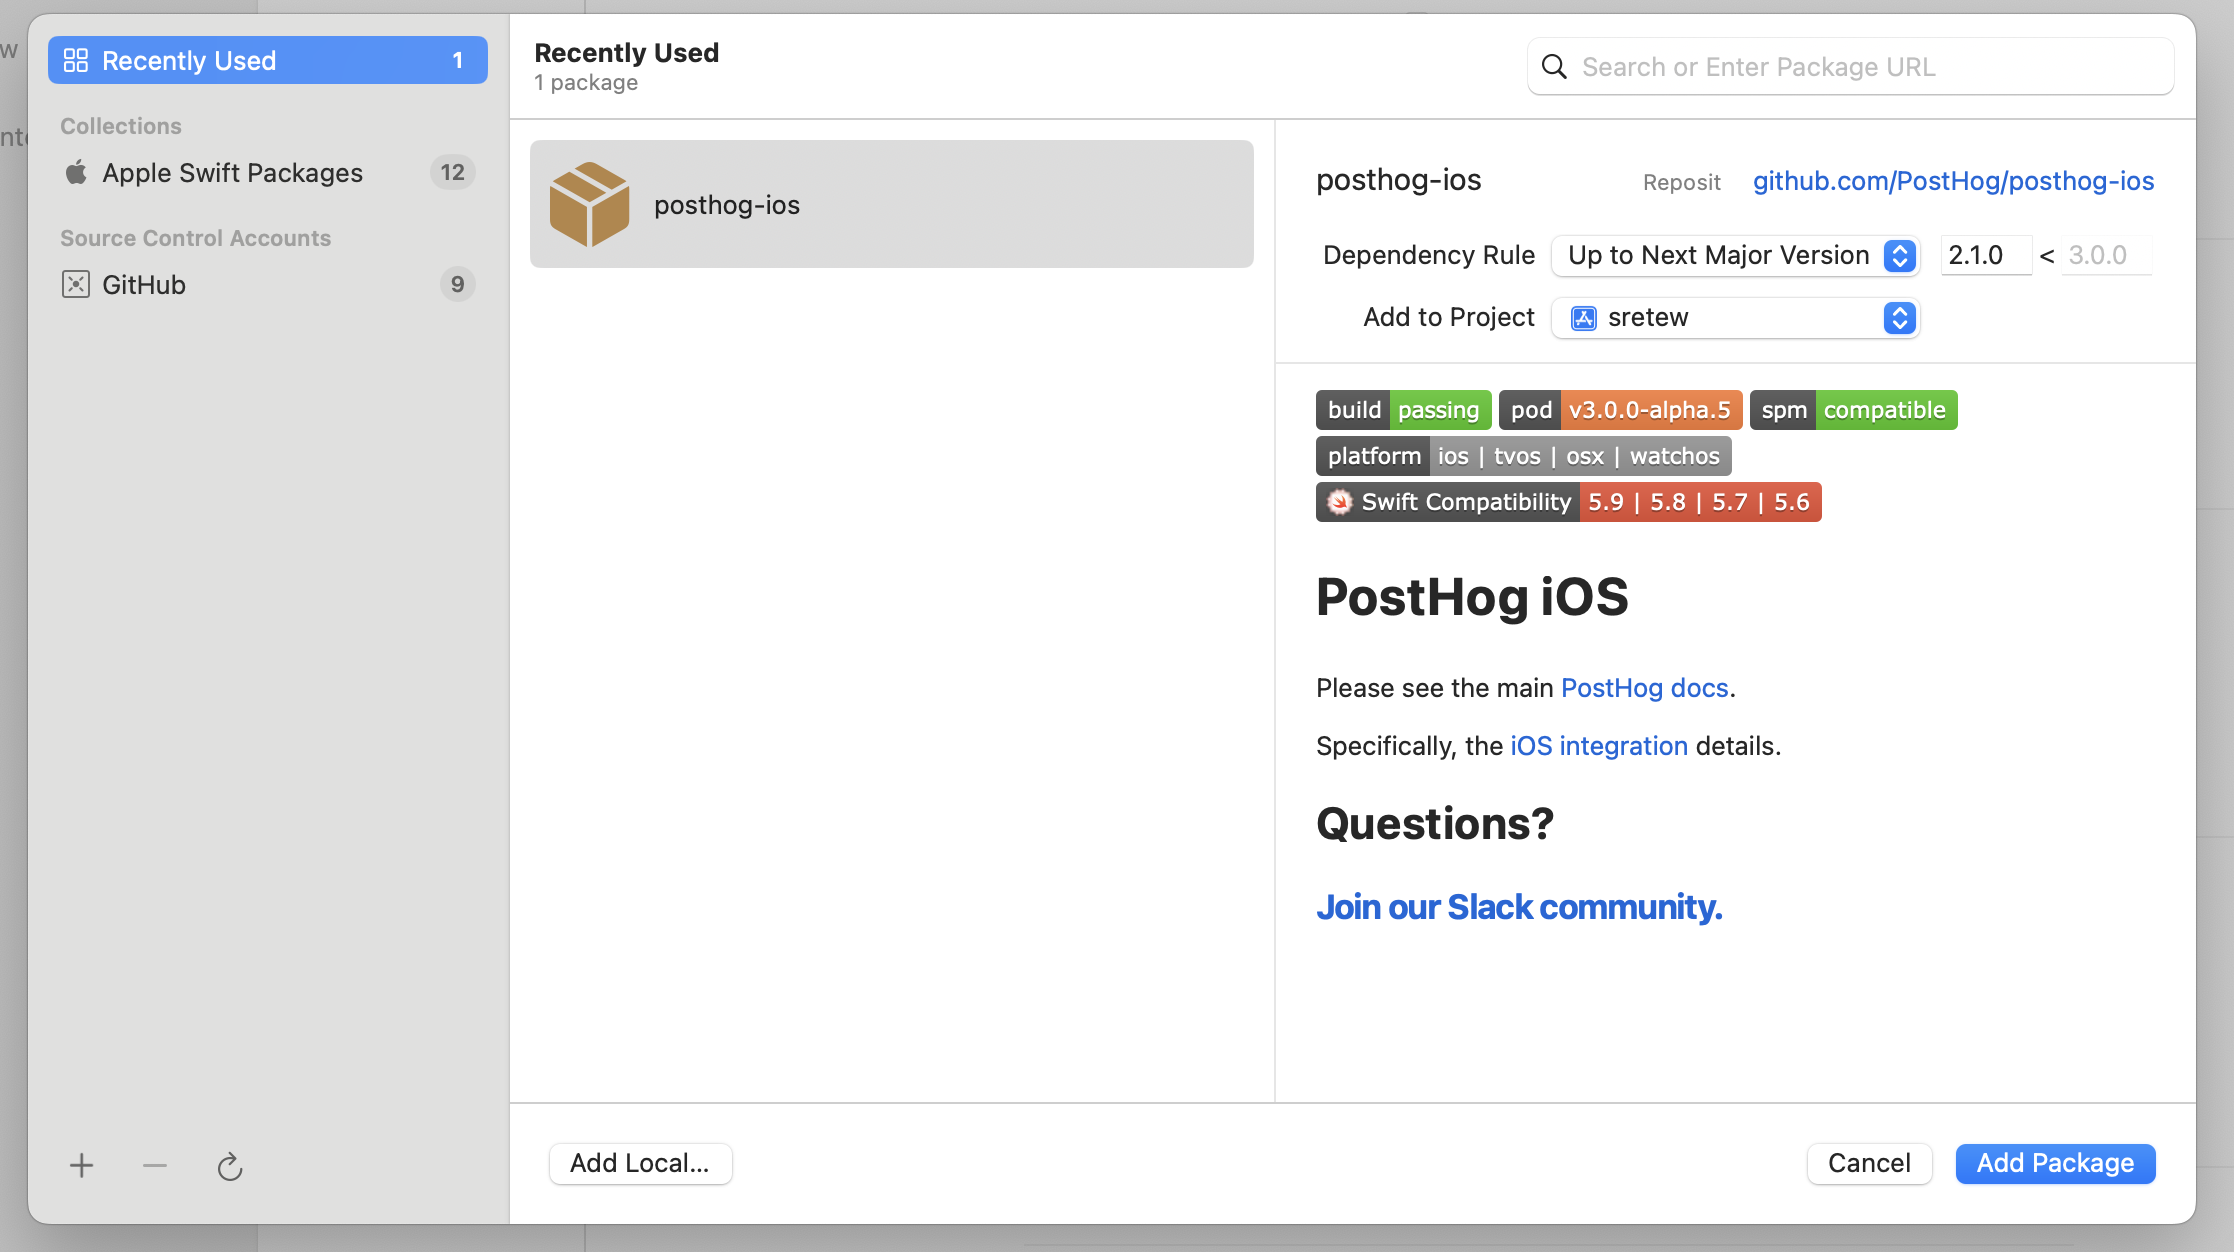
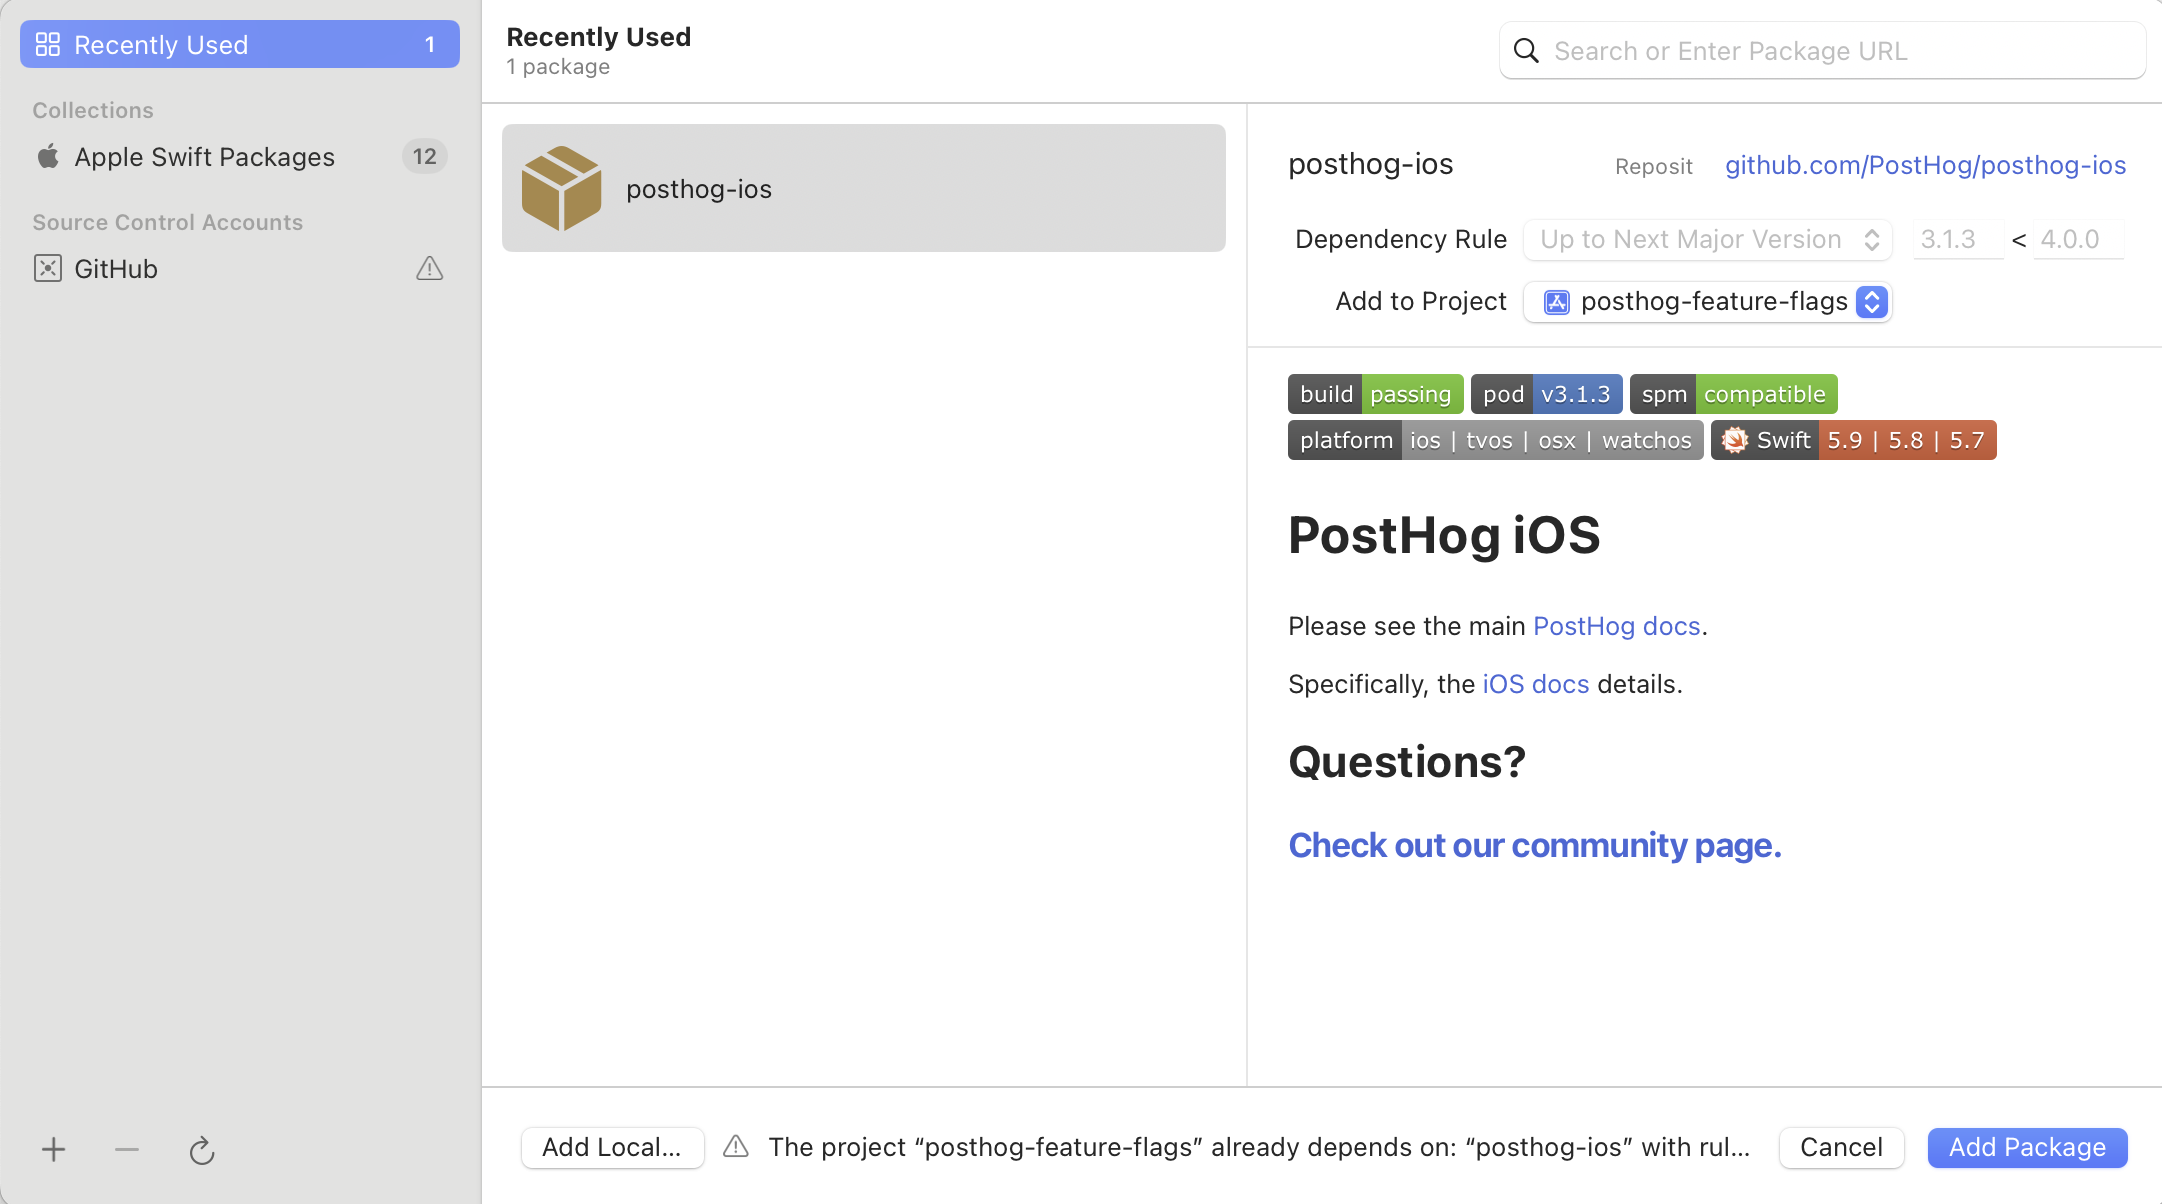
update ios and android sdk

Changed region(s): [[0.0, 0.0, 1.0, 1.0], [0.5888, 0.3073, 0.9297, 0.7375]]

diff --git a/contents/tutorials/android-ab-tests.md b/contents/tutorials/android-ab-tests.md
@@ -113,12 +113,12 @@ Our basic set up is now complete. Build and run your app to test that it's worki
 
 ## Adding PostHog to your Android app
 
-First, add the [PostHog Android SDK](/docs/libraries/android) as a dependency in your `app/build.gradle.kts` file. You can find the latest version on our [GitHub](https://github.com/PostHog/posthog-android/blob/main/CHANGELOG.md). For this tutorial, we use version `2.0.3`.
+First, add the [PostHog Android SDK](/docs/libraries/android) as a dependency in your `Gradle Scripts/build.gradle.kts (Module: app)` file. You can find the latest version on our [GitHub](https://github.com/PostHog/posthog-android/blob/main/CHANGELOG.md). For this tutorial, we use version `3.1.7`.
 
 
 ```gradle_kotlin
 dependencies {
-    implementation("com.posthog.android:posthog:2.0.3")
+    implementation("com.posthog:posthog-android:3.+")
     //... other dependencies
 }
 ```
@@ -132,46 +132,37 @@ Next, we create a Kotlin class where we can configure our PostHog instance. In t
 package com.example.my_ab_test
 
 import android.app.Application
-import com.posthog.android.PostHog
+import com.posthog.android.PostHogAndroid
+import com.posthog.android.PostHogAndroidConfig
 
 class MyABTestApplication : Application() {
     companion object {
         private const val POSTHOG_API_KEY = "<ph_project_api_key>"
-        // usually 'https://app.posthog.com' or 'https://eu.posthog.com'
-        private const val POSTHOG_HOST = "<ph_instance_address>"
+        private const val POSTHOG_HOST = "<ph_instance_address>" // usually 'https://app.posthog.com' or 'https://eu.posthog.com'
     }
 
     override fun onCreate() {
         super.onCreate()
-
-        // Initialize PostHog
-        val posthog = PostHog.Builder(this, POSTHOG_API_KEY, POSTHOG_HOST)
-            .captureApplicationLifecycleEvents()
-            .recordScreenViews()
-            .build()
-
-        // Set the initialized instance as a globally accessible instance
-        PostHog.setSingletonInstance(posthog)
+        val config = PostHogAndroidConfig(
+            apiKey = POSTHOG_API_KEY,
+            host = POSTHOG_HOST
+        )
+        PostHogAndroid.setup(this, config)
     }
 }
 ```
 
 To get your PostHog API key and host, [sign up to PostHog](https://app.posthog.com/signup). Then, you can find your API key and host in your [project settings](https://app.posthog.com/settings/project).
 
-We now need to register our custom application class. Go to `AndroidManifest.xml` and add `android:name=".MyABTestApplication"` within the `<application` tag. We also need to give our app internet permission by adding `<uses-permission android:name="android.permission.INTERNET" />`. 
-
-Together both of these changes look like this:
+We now need to register our custom application class. Go to `AndroidManifest.xml` and add `android:name=".MyABTestApplication"` within the `<application` tag:
 
 ```XML
 <?xml version="1.0" encoding="utf-8"?>
 <manifest xmlns:android="http://schemas.android.com/apk/res/android"
     xmlns:tools="http://schemas.android.com/tools">
-
-    <uses-permission android:name="android.permission.INTERNET" />
-
     <application
         android:name=".MyABTestApplication"
-        ...
+        <!-- rest of config -->
     </application>
 </manifest>
 ```
@@ -183,8 +174,7 @@ Update the `SecondScreen` function in `MainActivity.kt` to the following:
 ```kotlin
 // in MainActivity.kt
 
-import com.posthog.android.PostHog
-import androidx.compose.ui.platform.LocalContext
+import com.posthog.PostHog
 // ... [Rest of your imports and MainActivity code]
 
 @Composable
@@ -192,13 +182,10 @@ fun SecondScreen() {
     val isTestVariant = remember { mutableStateOf(false) } // We'll set this value later in the tutorial
     val backgroundColor = if (isTestVariant.value) Color.Green else Color.Red
 
-    val context = LocalContext.current // new
-
     Surface(modifier = Modifier.fillMaxSize(), color = backgroundColor) {
         Column(modifier = Modifier.fillMaxSize(), horizontalAlignment = Alignment.CenterHorizontally, verticalArrangement = Arrangement.Center) {
             Button(onClick = {
-                PostHog.with(context)
-                    .capture("feature_button_clicked");
+                PostHog.capture("feature_button_clicked");
             }) {
                 Text("Click Me!")
             }
@@ -244,12 +231,10 @@ import androidx.compose.runtime.LaunchedEffect
 
 @Composable
 fun SecondScreen() {
-    val context = LocalContext.current
     val isTestVariant = remember { mutableStateOf(false) }
 
-    // LaunchedEffect to call PostHog.getFeatureFlag() once when the composable is initialized
     LaunchedEffect(key1 = Unit) {
-        isTestVariant.value = PostHog.with(context).getFeatureFlag("android-background-color-experiment") == "test"
+        isTestVariant.value = PostHog.getFeatureFlag("android-background-color-experiment") == "test"
     }
 
     val backgroundColor = if (isTestVariant.value) Color.Green else Color.Red

diff --git a/contents/tutorials/ios-ab-tests.md b/contents/tutorials/ios-ab-tests.md
@@ -82,7 +82,7 @@ Our basic set up is now complete. Build and run your app to test that it's worki
 
 First, add [posthog-ios](https://github.com/PostHog/posthog-ios) as a dependency to your app using [Swift Package Manager](https://developer.apple.com/documentation/xcode/adding-package-dependencies-to-your-app) (or if you prefer, you can use [CocoaPods](/docs/libraries/ios#cocoapods) or [Carthage](/docs/libraries/ios#carthage)). To add the package dependency to your Xcode project, select File > Add Package Dependency and enter the URL `https://github.com/PostHog/posthog-ios.git`. Select `posthog-ios` and click Add Package.
 
-Note that for this tutorial we use version `2.1.0` of the SDK.
+Note that for this tutorial we use version `3.1.0` of the SDK.
 
 ![Add PostHog from Swift Package Manager](../images/tutorials/ios-ab-tests/swift-npm.png)
 
@@ -96,10 +96,10 @@ import PostHog
 @main
 struct App: App {
     init() {
-        let configuration = PHGPostHogConfiguration(apiKey: "<ph_project_api_key>", host: "<ph_instance_address>")
-        configuration.captureApplicationLifecycleEvents = true
-        configuration.recordScreenViews = true
-        PHGPostHog.setup(with: configuration)
+        let POSTHOG_API_KEY = "<ph_project_api_key>"
+        let POSTHOG_HOST = "<ph_instance_address>" // usually 'https://app.posthog.com' or 'https://eu.posthog.com'
+        let configuration = PostHogConfig(apiKey: POSTHOG_API_KEY, host: POSTHOG_HOST) 
+        PostHogSDK.shared.setup(configuration)
     }
     
     var body: some Scene {
@@ -121,7 +121,7 @@ import PostHog
 // ...rest of code
 
 Button("Click Me!") {
-    PHGPostHog.shared()?.capture("feature_button_clicked")
+    PostHogSDK.shared.capture("feature_button_clicked")
 }
 
 // ...rest of code
@@ -175,7 +175,7 @@ import PostHog
 
                Button("Go to Next Screen") {
                     // Fetch feature flag here
-                    let flagValue = PHGPostHog.shared()?.getFeatureFlag("ios-background-color-experiment") as? String
+                    let flagValue = PostHogSDK.shared.getFeatureFlag("ios-background-color-experiment") as? String
                     if flagValue == "test" {
                         isTestVariant = true
                     }

diff --git a/contents/tutorials/android-feature-flags.md b/contents/tutorials/android-feature-flags.md
@@ -140,8 +140,7 @@ import com.posthog.android.PostHogAndroidConfig
 class MyFeatureFlagsApplication : Application() {
     companion object {
         private const val POSTHOG_API_KEY = "<ph_project_api_key>"
-        // usually 'https://app.posthog.com' or 'https://eu.posthog.com'
-        private const val POSTHOG_HOST = "<ph_instance_address>"
+        private const val POSTHOG_HOST = "<ph_instance_address>" // usually 'https://app.posthog.com' or 'https://eu.posthog.com'
     }
 
     override fun onCreate() {
@@ -157,7 +156,7 @@ class MyFeatureFlagsApplication : Application() {
 
 To get your PostHog API key and host, [sign up to PostHog](https://us.posthog.com/signup). Then, you can find your API key and host in your [project settings](https://us.posthog.com/settings/project).
 
-We now need to register our custom application class. Go to `app/manifests/AndroidManifest.xml` and add `android:name=".MyFeatureFlagsApplication"` within the `<application` tag:
+We now need to register our custom application class. Go to `app/manifests/AndroidManifest.xml` and add `android:name=".MyFeatureFlagsApplication"` within the `<application>` tag:
 
 ```XML file=app/manifests/AndroidManifest.xml
 <?xml version="1.0" encoding="utf-8"?>
